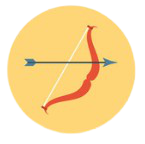
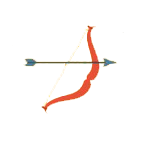
changement css avec la nouvelle charte graphique

diff --git a/public/style/login/login.css b/public/style/login/login.css
@@ -68,7 +68,6 @@ h2{
 .right_login_div{
     width: 100%;
     height: 100%;
-    background-color: rgba(211, 211, 211, 0.4);
     display: flex;
     justify-content: center;
     flex-direction: column;
@@ -142,10 +141,11 @@ h2{
 .login_logo_lg {
     width: 56%;
     position: absolute;
-    top: 10px;
+    top: 20px;
+    left: 20px;
     display: flex;
-    height: 50px;
-    justify-content: flex-end;
+    height: 70px;
+    justify-content: flex-start;
 }
 
 .login_logo_lg>img {
@@ -165,12 +165,10 @@ h2{
 }
 
 .login_submit_btn{
-    margin-top: 3rem;
+    margin-top: 1.4rem;
     width: 175px;
     height: 50px;
-    background-color: #6FCF97;
     border-radius: 6px;
-    color: whitesmoke;
     border: none;
     font-family: "Poppins", sans-serif;
     font-weight: 600;
@@ -181,7 +179,6 @@ h2{
     font-family: "Poppins", sans-serif;
     font-weight: 600;
     font-size: 0.8rem;
-    color: rgba(0,0,0,0.75);
 }
 .secondary_link-div{
     width: 100%;
@@ -190,9 +187,7 @@ h2{
     font-family: "Poppins", sans-serif;
     font-weight: 400;
     font-size: 0.75rem;
-    background-color: rgba(211, 211, 211, 0.4);
     border: none;
-    border-bottom: solid 1px #6FCF97;
     color: rgba(0,0,0,0.75);
 }
 
@@ -243,9 +238,6 @@ i{
     margin: 0 0 5px 0 !important;
 }
 
-.main_link{
-    margin: 0 !important;
-}
 
 @media screen and (max-width: 768px) {
     .left_login_div {

diff --git a/public/style/add_product/newproduct.css b/public/style/add_product/newproduct.css
@@ -33,7 +33,7 @@
 .custom-form-select{
      border-top: none;
      color: rgb(133, 133, 133);
-     border-bottom: 2px solid rgb(133, 133, 133);
+     border-bottom: 2px solid rgb(0, 0, 0);
      width: 100%;
      border-left: none;
      border-right: none;
@@ -41,29 +41,7 @@
 .custom-form-select option{
      padding: 0;
 }
-.left-container .div-submit{
-     justify-content: right;
-}
-.left-container button[type="submit"]{
-     background-color: #5EB777;
-     color: white;
-     /*box-shadow: 0px 6px 8px 1px rgba(19,19,19,0.78);*/
-     box-shadow: 0px 0px 0px 0px rgba(19,19,19,0.78);
-     border-radius: 6px;
-     border: none;
-     transition-duration: 0.2s;
-     padding: 10px 20px;
-}
 
-.left-container button[type="submit"]:hover{
-     background-color: #5EB777;
-     color: white;
-     box-shadow: 0px 6px 8px 1px rgba(19,19,19,0.78);
-     /*box-shadow: 0px 0px 0px 0px rgba(19,19,19,0.78);*/
-     border-radius: 6px;
-     border: none;
-     padding: 10px 20px;
-}
 .right-container{
      padding: 40px 0px;
      display: flex;

diff --git a/public/style/accueil/accueil.css b/public/style/accueil/accueil.css
@@ -121,20 +121,20 @@ body {}
     margin-left: 13px;
     height: 40px;
     width: 140px;
-    line-height: 40px;
+    line-height: 38px;
     vertical-align: middle;
     display: inline-block;
     text-align: center;
     border-radius: 18px;
     color: white;
-    background-color: #6fcf97;
+    background-color: #4C5059;
 
 }
 
 .sell:hover {
     transition: 0.5s;
-    color: white;
-    background-color: #3b9d62;
+    color: black;
+    background-color: #A4B5BF;
     text-decoration: none;
 }
 

diff --git a/public/style/home/home.css b/public/style/home/home.css
@@ -35,7 +35,7 @@ body{
 }
 
 .btn-buy{
-    background-color: #6fcf97;
+    background-color: #4C5059;
     display:inline-block;
     color: white;
     height: 40px;
@@ -51,7 +51,7 @@ body{
 }
 
 .btn-buy:hover{
-    background-color: #3b9d62;
+    background-color: #A4B5BF;
     color: white;
 }
 

diff --git a/tailwind.config.js b/tailwind.config.js
@@ -1,7 +1,13 @@
 module.exports = {
   content: ["./templates/**/*.{twig,js}"],
   theme: {
-    extend: {},
+
+    extend: {
+      colors: {
+        'clair': '#A4B5BF',
+        'fonce': '#4C5059',
+      },
+    },
   },
   plugins: [],
 }

diff --git a/public/style/favoris/favorite_card.css b/public/style/favoris/favorite_card.css
@@ -93,7 +93,7 @@
 .favorite_card_sub_line_description {
   height: 0;
   display: flex;
-  justify-content: space-between;
+  justify-content: flex-end;
   margin-top: inherit;
 }
 .favorite_card_sub_line_description p,

diff --git a/src/Controller/ProductController.php b/src/Controller/ProductController.php
@@ -2,6 +2,7 @@
 
 namespace App\Controller;
 
+use App\Entity\Brand;
 use App\Entity\Category;
 use App\Entity\Color;
 use App\Entity\Favorite;
@@ -86,9 +87,11 @@ class ProductController extends AbstractController
     $categories = $this->em->getRepository(Category::class)->findAll();
     $colors = $this->em->getRepository(Color::class)->findAll();
     $sizes = $this->em->getRepository(Size::class)->findAll();
+    $brands = $this->em->getRepository(Brand::class)->findAll();
     return $this->render('product/addproduct.html.twig', [
       'genders' => $genders,
       'qualitys' => $qualitys,
+      'brands' => $brands,
       'categories' => $categories,
       'colors' => $colors,
       'sizes' => $sizes
@@ -118,6 +121,7 @@ class ProductController extends AbstractController
           $gender = $this->em->getRepository(Gender::class)->find($params['gender']);
           $category = $this->em->getRepository(Category::class)->find($params['category']);
           $quality = $this->em->getRepository(Quality::class)->find($params['state']);
+          $brand = $this->em->getRepository(Brand::class)->find($params['brand']);
 
           $product->setState($state);
           $product->setColorPrimary($mainColor);
@@ -128,7 +132,7 @@ class ProductController extends AbstractController
           $product->setCategory($category);
           $product->setQuality($quality);
           $product->setTitle($params['name']);
-          $product->setBrand($params['brand']);
+          $product->setBrand($brand);
           $product->setPrice($params['price']);
           $product->setLink($params['link']);
           $product->setUser($this->getUser());

diff --git a/src/Controller/AproposController.php b/src/Controller/AproposController.php
@@ -1,0 +1,20 @@
+<?php
+
+namespace App\Controller;
+
+use Symfony\Bundle\FrameworkBundle\Controller\AbstractController;
+use Symfony\Component\HttpFoundation\Response;
+use Symfony\Component\Routing\Annotation\Route;
+
+class AproposController extends AbstractController
+{
+    /**
+     * @Route("/apropos", name="app_apropos")
+     */
+    public function index(): Response
+    {
+        return $this->render('apropos/index.html.twig', [
+            'controller_name' => 'AproposController',
+        ]);
+    }
+}
